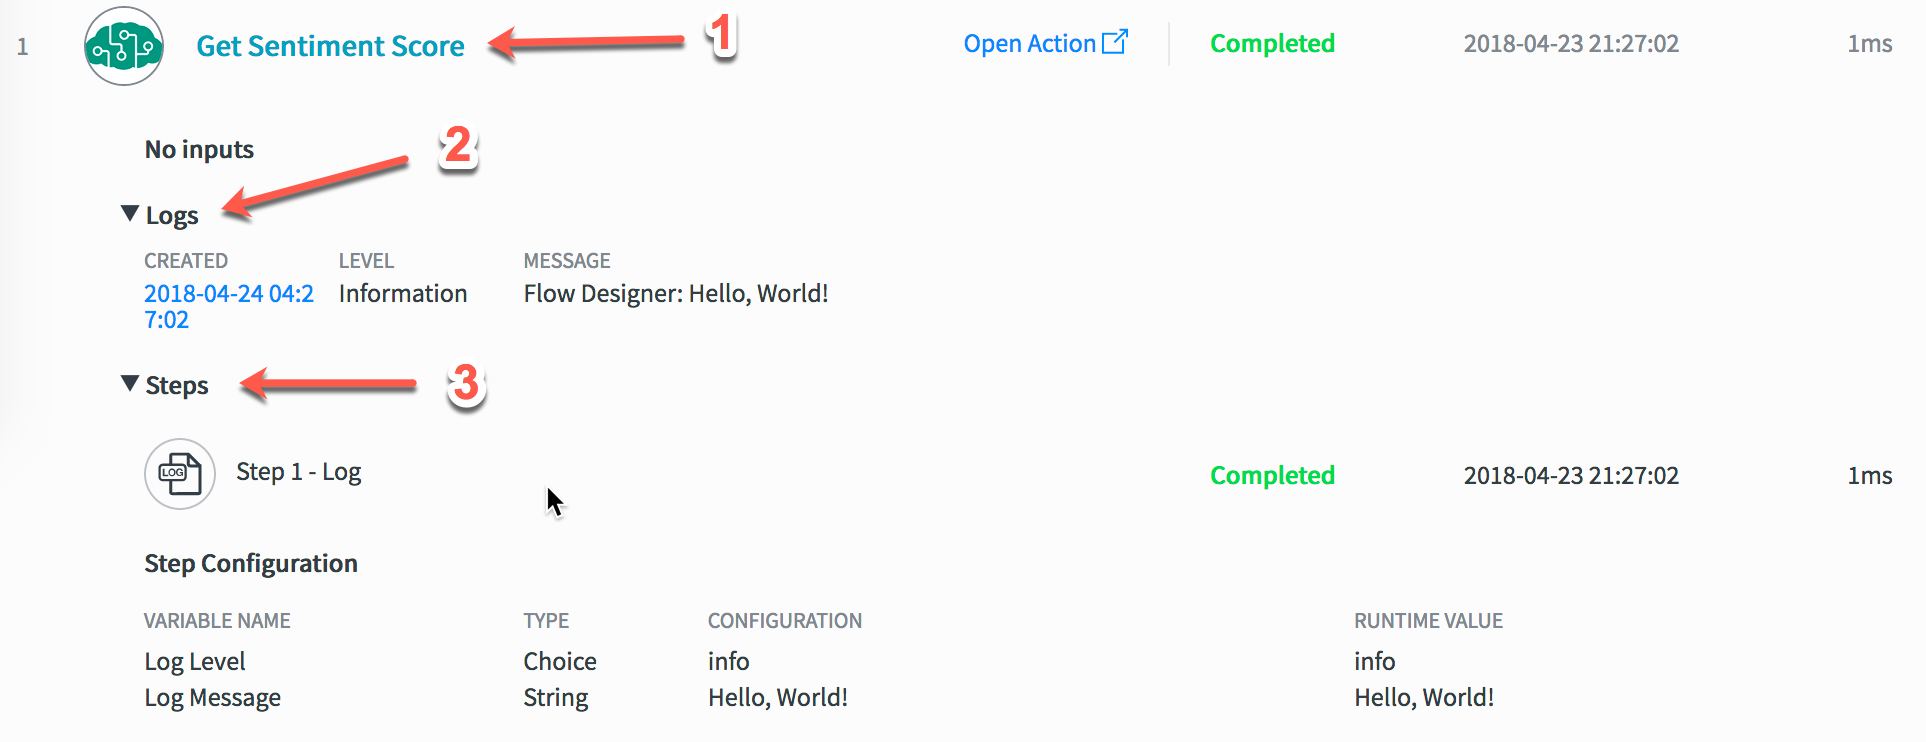
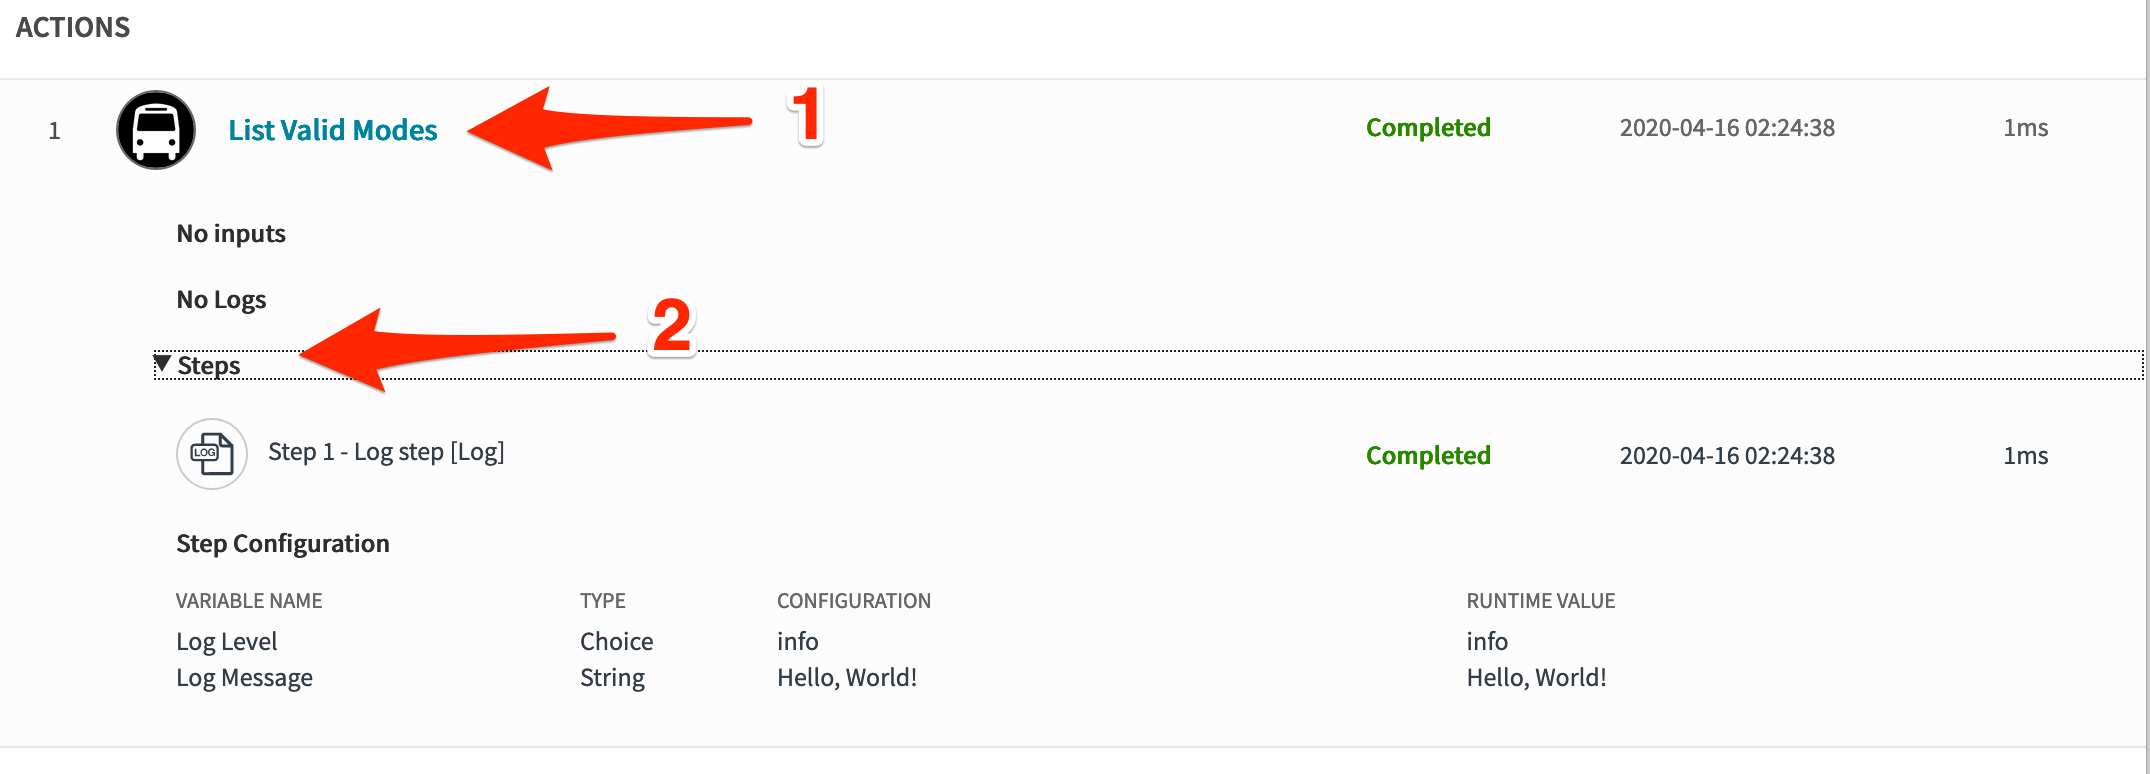
Changed screenshots through Test Flow

diff --git a/guidebook.md b/guidebook.md
@@ -107,28 +107,28 @@ Actions are made up of a series of steps. You will now add a simple Log step to 
 
 Now that you have an Action, you need a Flow to test it.
 
-1. Click the **+ New** button, and then click **New Flow** in the resulting menu.
+1. Click the **+ New** button, and then click **Flow** in the resulting menu.
     ![Alt Text](images/019_create_new_flow.png)
 2. Name the Flow “Test Flow” and click the **Submit** button.
     ![Alt Text](images/020_new_flow_form.png)
 
 ## Add a Trigger
 
-Flows run when a Trigger condition is met. For this test, we will run a flow any time an Incident [incident] record is created or updated.
+Flows run when a Trigger condition is met. For this test, we will run a flow on a scheduled basis.
 
-1. Click the **Click to add a trigger** button.
-    ![Alt Text](images/021_click_to_add_trigger.png)
-2. Under the **Record** section, click **Created or Updated**.
-    ![Alt Text](images/022_select_created_or_updated_trigger.png)
-3. Set **Table** to “Incident [incident]”. and **Run Trigger** to “Always”.
-    ![Alt Text](images/023_configure_trigger.png)
+1. Click the **Select to add a trigger** button.
+    ![Select to Add a Trigger](images/021_select_to_add_trigger.png)
+2. Under the **Date** section, click **Daily**.
+    ![Select Daily Trigger](images/022_select_daily_trigger.png)
+3. Set to any time and click **Done**.
+    ![Select Daily Trigger](images/023_configure_trigger.png)
 
 ### Enable Draft Actions
 
 By default, only **Published** actions will show up in Flow Designer. Remember when we **didn’t** press the Publish button on the Action? When testing unpublished Actions, you must first enable the option to show draft actions.
 
-1. Click the **More Actions** button and click **Configurations**.
-    ![Alt Text](images/024_select_more_actions_configurations.png)
+1. Click the **More Actions** button (aka the "kebab menu") and click **Configurations**.
+    ![Select Configurations](images/024_select_more_actions_configurations.png)
 2. Turn on the **Show draft actions** toggle.
     ![Alt Text](images/025_click_show_draft_actions.png)
 3. Close the **Configurations** dialog.
@@ -137,28 +137,28 @@ By default, only **Published** actions will show up in Flow Designer. Remember w
 
 Now it’s time to add your action to the test flow.
 
-1. Click the **Click to add an Action, Flow Logic, or Subflow** link.
+1. Click the **Select to add an Action, Flow Logic, or Subflow** link.
 
-    ![Alt Text](images/026_click_to_add_action.png)
+    ![Select to add Action](images/026_select_to_add_action.png)
 
 2. Click the **Action** button.
-3. Click the **Microsoft Text Analytics** Spoke.
-4. Click the **Get Sentiment Score** Action.
-    ![Alt Text](images/027_select_sentiment_score_action.png)
+3. Click the **London Transit** Spoke.
+4. Click the **List Valid Modes** Action.
+    ![In the London Transit Spoke Select the List Valid Modes Action](images/027_select_list_valid_modes_action.png)
 5. The Action is now part of the Flow.
-    ![Alt Text](images/028_sentiment_score_action_on_flow.png)
+    ![List Valid Modes Action is Now In Flow](images/028_list_valid_modes_action_on_flow.png)
 
 ### Test the Flow
 
 1. To test the flow, click the **Test** button.
-    ![Alt Text](images/029_click_test_button.png)
-2. A Dialog will open. Select any Incident record and click the **Run Test** button.
-    ![Alt Text](images/030_configure_test.png)
+    ![Click the Test buttom](images/029_click_test_button.png)
+2. A Dialog will open. Click the **Run Test** button.
+    ![Click Run Test](images/030_configure_test.png)
 3. Click the **Flow has been executed. To view the flow, click here** link.
-    ![Alt Text](images/031_flow_has_been_exec_link.png)
+    ![Click the View Flow Li](images/031_flow_has_been_exec_link.png)
 4. This will open the Execution Details for the test run.
     ![Alt Text](images/032_execution_details.png)
-5. Click the **Get Sentiment Score** action to expand details about the execution of that action. Click the **Logs** and **Steps** sections to expand them. Note that the Logs section will show all logs generated by the action. The Steps section will show the list of steps executed inside of the action, and the step configuration details such as design time and run time values.
+5. Click the **List Valid Modes** action to expand details about the execution of that action. Click the **Logs** and **Steps** section to expand them. Note that the Logs section will show all logs generated by the action. The Steps section will show the list of steps executed inside of the action, and the step configuration details such as design time and run time values.
     ![Alt Text](images/033_execution_details_expanded.png)
 
 # Define Action Inputs
